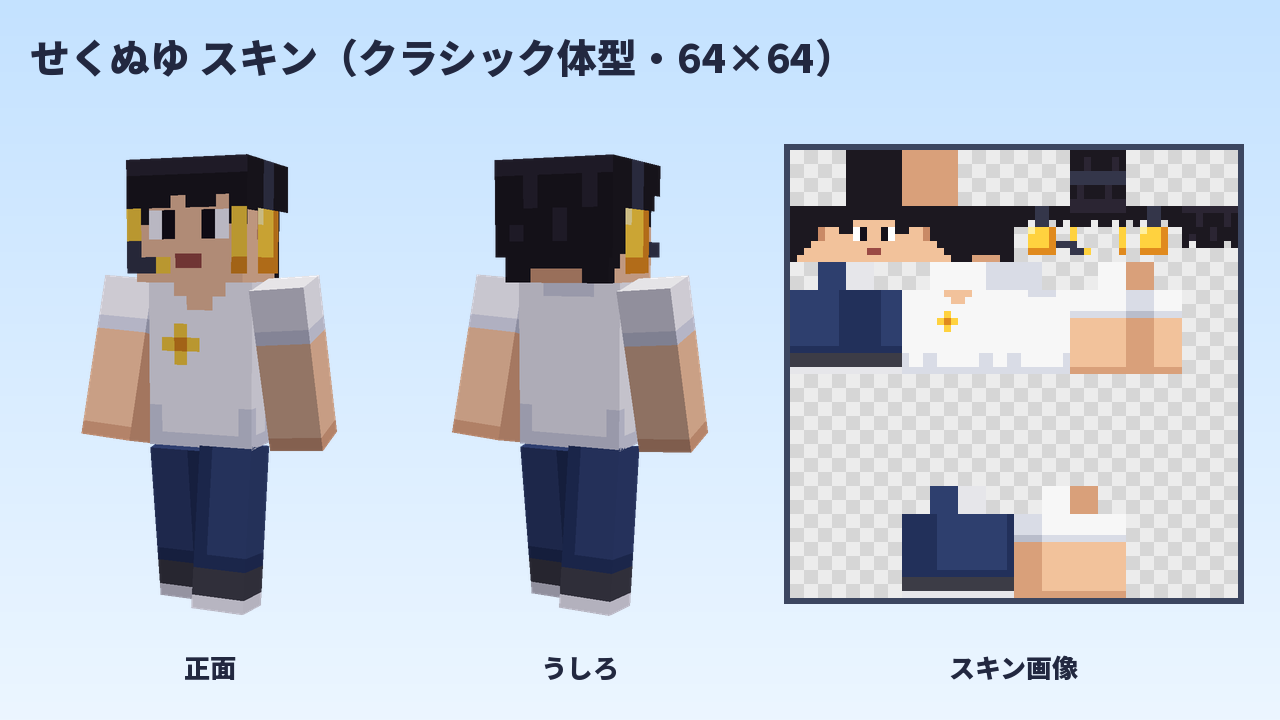
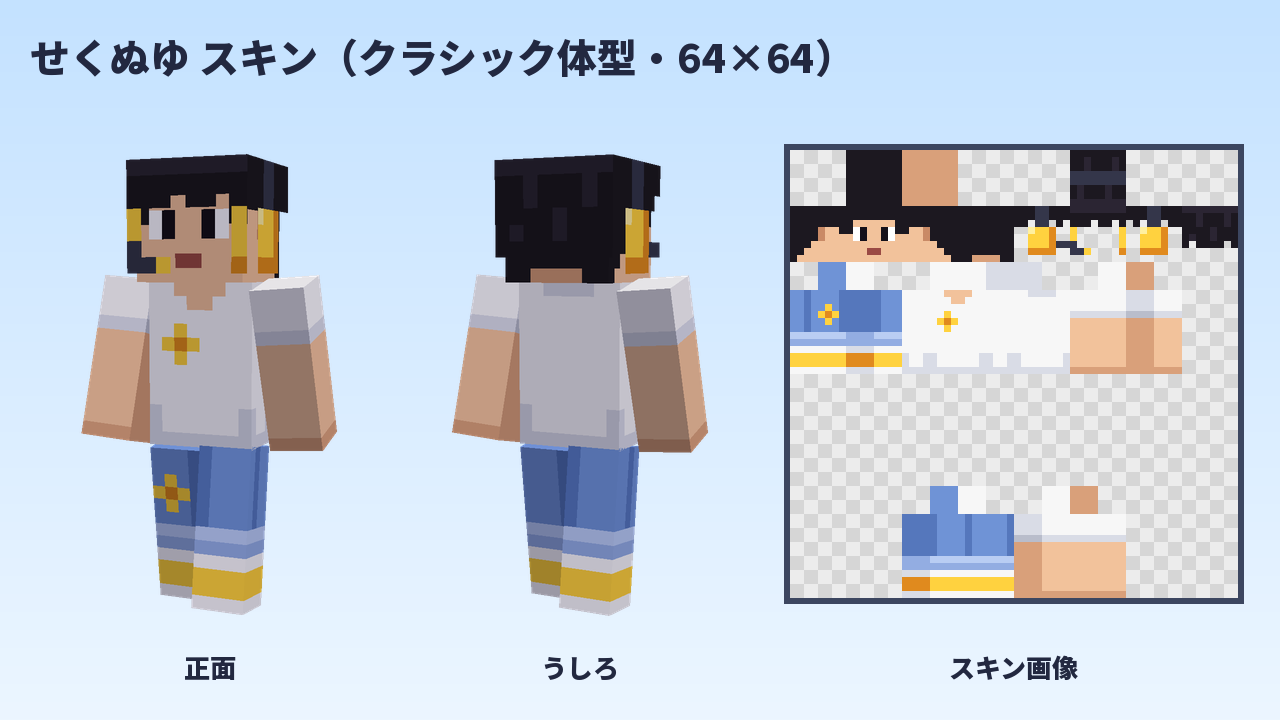
スキンのズボンをかわいく：明るいデニムのロールアップ＋たんぽぽのワッペン
- ロールアップの明るいデニム、右ひざにたんぽぽのワッペン、白ソックス、黄色いスニーカー
- ほかの案（ギンガムチェック・ショートパンツ・最初のジーンズ）も PANTS_STYLE で選べるようにした

Claude-Session: https://claude.ai/code/session_01ARLGywnTjgvutUHsht7TWK

diff --git a/sekunuyu-skin/make_skin.py b/sekunuyu-skin/make_skin.py
@@ -23,6 +23,9 @@ PAL = {
     "w": "#FFFFFF", "k": "#14101A", "m": "#9A4A44",      # 白目・黒目・口
     "T": "#F7F7F7", "u": "#D9DCE6", "U": "#B9BDCB",      # 白T・影・濃い影
     "j": "#2E3F6E", "J": "#22305A",                      # ジーンズ・影
+    "a": "#6F93D6", "A": "#5577BC",                      # 明るいデニム・影
+    "c": "#B9CDF3", "C": "#93ADE2",                      # 折り返したすそ・影
+    "q": "#FFF8DE", "Q": "#FFE68C",                      # ギンガムチェックのクリーム色・うすい黄色
     "o": "#3C3C46", "O": "#E6E6EA",                      # くつ・くつ底
     "y": "#FFD23F", "Y": "#E08A1E", "L": "#FFF0A0",      # 黄色（ヘッドセット・たんぽぽ）・影・光
     "B": "#34364A",                                      # ヘッドセットのバンドとマイク
@@ -145,14 +148,51 @@ ARM = {   # 右腕（半そで）
     "left": ["uuuu", "uuuu", "uuuu", "UUUU"] + ["SSSS"] * 8,     # 体側（かげ）
 }
 
-LEG = {   # 右足（ジーンズ＋スニーカー）
-    "top": ["jjjj"] * 4,
-    "bottom": ["OOOO"] * 4,
-    "front": ["jjjJ"] * 8 + ["JJJJ", "oooo", "oooo", "OOOO"],
-    "back": ["Jjjj"] * 8 + ["JJJJ", "oooo", "oooo", "OOOO"],
-    "right": ["jjjj"] * 8 + ["JJJJ", "oooo", "oooo", "OOOO"],
-    "left": ["JJJJ"] * 8 + ["JJJJ", "oooo", "oooo", "OOOO"],     # 内側（かげ）
+def gingham(h: int) -> list[str]:
+    """黄色のギンガムチェック（2ドットごと）。"""
+    return ["".join("y" if (y // 2) % 2 == 0 and (x // 2) % 2 == 0 else
+                    "Q" if (y // 2) % 2 == 0 or (x // 2) % 2 == 0 else "q" for x in range(4)) for y in range(h)]
+
+
+# ズボン（右足の形。左足は左右反転して作る）。どれを使うかは PANTS_STYLE で選ぶ
+PANTS = {
+    # 明るいデニムをロールアップ＋白ソックス＋黄色いスニーカー（右ひざにたんぽぽのワッペン）
+    "rollup": {
+        "top": ["aaaa"] * 4,
+        "bottom": ["TTTT"] * 4,
+        "front": ["aaaA"] * 6 + ["cccc", "CCCC", "TTTT", "yyyy", "yyyy", "TTTT"],
+        "back": ["Aaaa"] * 6 + ["cccc", "CCCC", "TTTT", "yyyy", "yyyy", "TTTT"],
+        "right": ["aaAa"] * 6 + ["cccc", "CCCC", "TTTT", "yyyy", "yyyy", "TTTT"],
+        "left": ["AAAA"] * 6 + ["CCCC", "CCCC", "uuuu", "YYYY", "YYYY", "uuuu"],    # 内側（かげ）
+    },
+    # 黄色のギンガムチェック＋白ソックス＋黒いスニーカー
+    "gingham": {
+        "top": ["qqqq"] * 4,
+        "bottom": ["OOOO"] * 4,
+        **{f: gingham(9) + ["TTTT", "oooo", "OOOO"] for f in ("front", "back", "right", "left")},
+    },
+    # デニムのショートパンツ＋黄色と白のボーダーソックス
+    "shorts": {
+        "top": ["aaaa"] * 4,
+        "bottom": ["OOOO"] * 4,
+        "front": ["aaaA"] * 4 + ["cccc", "ssss", "yyyy", "TTTT", "yyyy", "TTTT", "oooo", "OOOO"],
+        "back": ["Aaaa"] * 4 + ["cccc", "ssss", "yyyy", "TTTT", "yyyy", "TTTT", "oooo", "OOOO"],
+        "right": ["aaAa"] * 4 + ["cccc", "ssss", "yyyy", "TTTT", "yyyy", "TTTT", "oooo", "OOOO"],
+        "left": ["AAAA"] * 4 + ["CCCC", "SSSS", "YYYY", "uuuu", "YYYY", "uuuu", "oooo", "OOOO"],
+    },
+    # 最初の濃いジーンズ＋スニーカー
+    "jeans": {
+        "top": ["jjjj"] * 4,
+        "bottom": ["OOOO"] * 4,
+        "front": ["jjjJ"] * 8 + ["JJJJ", "oooo", "oooo", "OOOO"],
+        "back": ["Jjjj"] * 8 + ["JJJJ", "oooo", "oooo", "OOOO"],
+        "right": ["jjjj"] * 8 + ["JJJJ", "oooo", "oooo", "OOOO"],
+        "left": ["JJJJ"] * 8 + ["JJJJ", "oooo", "oooo", "OOOO"],
+    },
 }
+# 右足だけに付けるワッペン：(面, 上からの行, 左からの列, ドット絵)
+PATCHES = {"rollup": ("front", 2, 0, [".y.", "yYy", ".y."])}
+PANTS_STYLE = "rollup"
 
 
 def mirror(part: dict) -> dict:
@@ -162,8 +202,30 @@ def mirror(part: dict) -> dict:
             "back": flip(part["back"]), "right": flip(part["left"]), "left": flip(part["right"])}
 
 
-DESIGN = {"head": HEAD, "hat": HAT, "body": BODY, "arm": ARM, "arm_l": mirror(ARM), "leg": LEG,
-          "leg_l": mirror(LEG)}
+def paste(rows: list[str], patch: list[str], x0: int, y0: int) -> list[str]:
+    """ドット絵の上に小さなドット絵を重ねる（"." の所はそのまま）。"""
+    rows = list(rows)
+    for dy, pr in enumerate(patch):
+        r = list(rows[y0 + dy])
+        for dx, ch in enumerate(pr):
+            if ch != ".":
+                r[x0 + dx] = ch
+        rows[y0 + dy] = "".join(r)
+    return rows
+
+
+def legs(style: str) -> tuple[dict, dict]:
+    """右足と左足。ワッペンは右足だけ。"""
+    right = dict(PANTS[style])
+    left = mirror(right)
+    if style in PATCHES:
+        face, y0, x0, patch = PATCHES[style]
+        right[face] = paste(right[face], patch, x0, y0)
+    return right, left
+
+
+LEG_R, LEG_L = legs(PANTS_STYLE)
+DESIGN = {"head": HEAD, "hat": HAT, "body": BODY, "arm": ARM, "arm_l": mirror(ARM), "leg": LEG_R, "leg_l": LEG_L}
 
 
 def rgba(ch: str) -> tuple:
